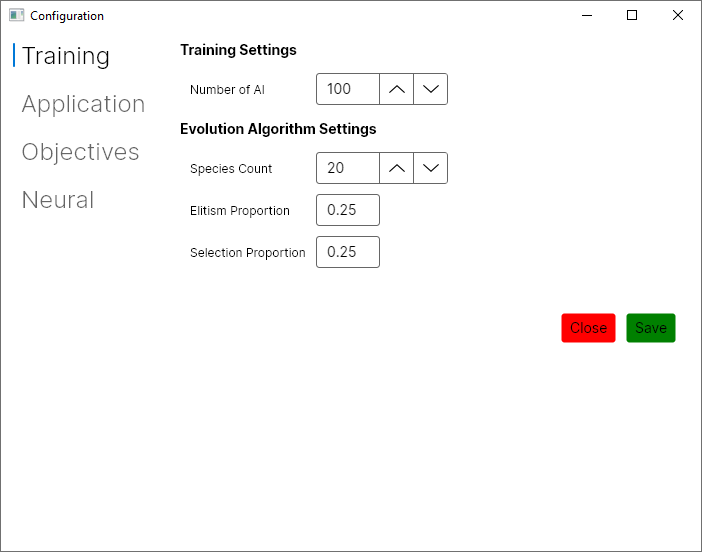
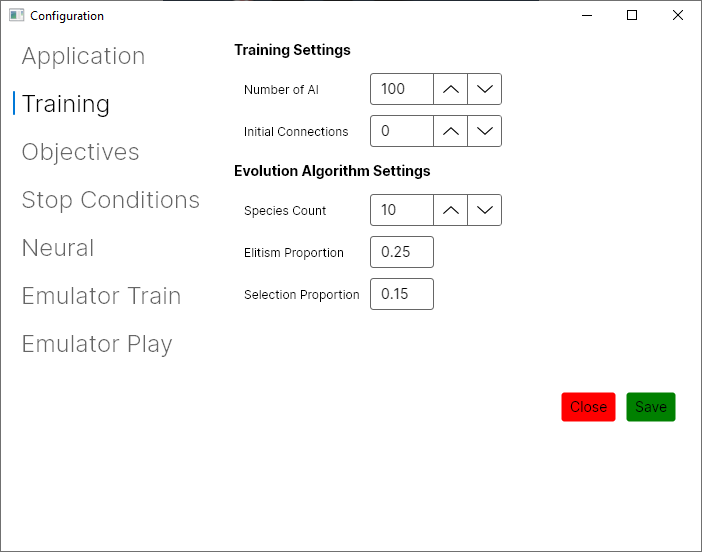
Updated README to current application version

diff --git a/README.md b/README.md
@@ -1,19 +1,25 @@
 # Super Mario World - Machine Learning
 A project by Tourmi & Voltage98 
 --------
-Training a Super Mario World AI that's able to beat levels on its own, as well as completing or optimizing various objectives  
+Training a Super Mario World AI that's able to beat levels on its own, as well as completing or optimizing various objectives
+
 [MIT License](LICENSE)
 
 ## When cloning
 It is important to either clone the repository recursively to include the submodules, or initialize the submodules after cloning, as they need to be built for the program compilation to actually work.
 
+```
+git submodule init
+```
+
 ## Prerequisites
 * Must be on Windows
 * .NET SDK 6.0 or higher must be installed
 * Microsoft Visual C++ 2010 SP1 Runtime (x64) must be installed for Bizhawk to run
+* A Super Mario World ROM File
 
 ## Building the dependencies
-Run these commands starting from the root of the repository. Alternatively, you may use the buildDependencies script.
+Run these commands starting from the root of the repository. Alternatively, you may use the `buildDependencies.bat` script.
 
 ### SharpNEAT
 ```
@@ -34,9 +40,9 @@ dotnet build --configuration Release
 ```
 
 ## Running the application
-To run the application, you first need to copy a Super Mario World rom file to the root directory of the program. It must be named "swm.sfc" exactly.
+You may use the `run.bat` file to run the program, once the dependencies are built.
 
-You may use the run.bat file to run the program, once the dependencies are built.
+You will need to provide a Super Mario World ROM file through the configuration if the root directory of the program doesn't contain the ROM file (`smw.sfc`).
 
 ## Using the application
 
@@ -48,25 +54,37 @@ You may use the run.bat file to run the program, once the dependencies are built
 * **[Training Configuration](#configuration)**
 
 ### Training Page
+On this page, you can start training AIs, and supervise their progress. When starting a new training session, a folder will be created at the location of the app. The folder contains the current neural configuration, so that it can easily be loaded later on. It also contains the latest population file `current.pop`, so that training can be resumed. And it contains a `genomes/` folder, where the current best genome is saved, whenever it is improved.
+
 The training page consists of the following tabs
 
 #### Training Tab
-![Image of the training page's training tab](docs/training-training.png)  
+![Image of the training page's training tab](docs/training-training.png)
+
 * **Start training**
   * Starts the training of AIs, using the [app's configuration](#configuration). Note that the UI might be unresponsive if too many emulator instances are running at once. Please do not close any emulators manually, as this will break the application.
 * **Stop Training**
   * Will stop training at the end of the current generation. Please be patient if the population size is big, and not many emulators are running at once.
+* **Force Stop**
+  * Will immediately stop the training, if you do not wish to wait for the current generation to end. Note that the latest generation will be forfeit, and won't be saved or update the statistics.
 * **Load population**
   * Loads an existing population (xyz.pop) into the program. Allows to continue training a population after closing and reopening the application.
 * **Save population**
-  * Saves the population that's been trained for at least one generation.
+  * Saves the population that's been trained to a file.
 * **Exit**
   * Returns to the [main page](#main-page)
-  
+
 #### Neural Network Tab
 ![Image of the training page's neural network tab](docs/training-neural.png)
-* **Neural Network visualization**
-  * Shows the first emulator's neural network structure and values. When the emulators finish booting, the emulator being represented will be the one that was booted first. The refresh rate of the preview will depend on the computer's performances, and having too many emulators running at once will affect it.
+**Neural Network visualization**
+
+Shows the first emulator's neural network structure and values. Colored/white nodes are On, dark nodes are Off. The state of middle nodes is not represented. Magenta connections are negative connections, and green ones, positive.
+
+When the emulators finish booting, the emulator being represented will be the one that was booted first. The refresh rate of the preview will depend on the computer's performances, and having too many emulators running at once will affect it.
+
+It is recommended to not stay on this page for too long, as it will affect the speed of the training session.
+
+More information on the inputs and outputs of the neural network can be found in the [configuration](#Neural).
 
 #### Statistics Tab
 ![Image of the training page's statistics tab](docs/training-stats.png)  
@@ -78,16 +96,16 @@ This tab shows statistics of the current training session. They are updated at t
   * The best AI's current score.
 * **Best genome's complexity**
   * The amount of connections in the neural network of the best AI.
-* **Mean fitness**
+* **Average fitness**
   * The average score of all the AIs.
-* **Mean complexity**
+* **Average complexity**
   * The average complexity (amount of connections in the neural network) of all the AIs.
 * **Maximum complexity**
   * The maximum complexity of all the AIs.
 * **Evaluations per minute**
   * The amount of AIs that are evaluated per minute.
 * **Total evaluations so far**
-  * The amount of AIs evaluated since the start of training.
+  * The amount of AIs evaluated since the start of the training session.
 
 #### Graph Tab
 ![Image of the training page's chart tab](docs/training-chart.png)
@@ -97,7 +115,8 @@ This tab shows a graph of the different stats mapped over the training generatio
 ### Play Mode
 ![Image of the play mode page](docs/playmode.png)  
 
-This page is used to make specific genomes play on specific levels, both of them being manually selected. It is a good way to check the abilities of a genome on levels that aren't part of its training-set.
+This page is used to make specific genomes play on specific levels, both of them being manually selected. It is a good way to check the abilities of a genome on levels that aren't part of its training-set, or even previewing the capabilities of the resulting genomes from a training session.
+
 * **Load Genome**
   * Loads the genome to use for the play mode. Selecting a new genome while the play mode is running reloads the save state and starts it again using the new genome.
 * **Load save state**
@@ -111,11 +130,26 @@ This page is used to make specific genomes play on specific levels, both of them
 
 ### Configuration
 
+#### Application
+![Image of the app configuration menu](docs/config-app.png)  
+
+* **ROM Path**
+  * The path to the Super Mario World ROM file. Clicking the `Select ROM` button allows to select a new ROM.
+* **Multithread**
+  * This is the amount of emulators which will be booted while training. It is recommended to not put this value higher than the amount of cores within your computer, as performance will be greatly affected. For the fastest training, at the cost of using up all of the CPU resources available, set to the exact amount of cores in your computer. Otherwise, set to a lower value.
+* **Communication Port with Arduino**
+  * Communication port with an Arduino that's connected to the PC. Should be left like it is if no arduinos are connected. Used so we can preview the inputs on an actual physical controller.
+  * [See ./ArduinoSNESController](ArduinoSNESController)
+* **Save states to use**
+  * By clicking the button, you can select the save states you want to use for training. At least one must be selected.
+
 #### Training
 ![Image of the neural network configuration menu](docs/config-training.png)  
 
 * **Number of AIs**
   * Determines the total population size of the training. Making it too big will make evolution really slow, while making it too small will make break-throughs extremely rare.
+* **Initial connections**
+  * We recommend leaving this option at 0, but it allows the specification of a percentage of predefined connections when training a new AI. Should be higher or equal to 0, but lower than 1.
 * **Species count**
   * Determines the number of species to use for the NEAT algorithm. A higher value will make breakthroughs more common while training, but a value that's too high will be detrimental to the evolution of the individual species. The amount of AIs per species is equal to `Number of AI / Species Count`
 * **Elitism proportion**
@@ -123,26 +157,14 @@ This page is used to make specific genomes play on specific levels, both of them
 * **Selection proportion**
   * The percentage of AIs to keep between each generation, within a species. Should be higher than 0, but lower or equal to 1. New AIs will be created within the species based on the AIs that are kept.
 
-#### Application
-![Image of the app configuration menu](docs/config-app.png)  
-
-* **Multithread**
-  * This is the amount of emulators which will be booted while training. It is recommended to not put this value higher than the amount of cores within your computer, as performance will be greatly affected. For the fastest training, at the cost of using up all of the CPU resources available, set to the exact amount of cores in your computer. Otherwise, set to a lower value.
-* **Communication Port with Arduino**
-  * Communication port with an Arduino that's connected to the PC. Should be left like it is if no arduinos are connected. Used so we can preview the inputs on an actual physical controller.
-  * [See ./ArduinoSNESController](ArduinoSNESController)
-* **When to stop the training**
-  * UNIMPLEMENTED
-* **Save states to use**
-  * By clicking the button, you can select the save states you want to use for training. At least one must be selected.
-
 #### Objectives
 ![Image of the objectives configuration menu](docs/config-objectives.png)  
 
 This page lists all of the available training objectives. Some of them cannot be disabled, but the multiplier can be set to 0 so it won't affect the score, at least. The values pictured are the recommended values when training AIs from nothing, but you may experiment at your leisure.
+
 * **Enabled**
   * Whether or not this objective will affect the score.
-  * Also, if the objective has a stop condition, the stop condition will not actually stop the level if it is disabled.
+  * Also, some objectives cuts the training short when a certain condition is satisfied (Dying for `Died`, completing the level for `Won level`, etc). This behaviour is disabled when the objective is disabled.
 * **Multiplier**
   * The amount by which to multiply the objective's score.
 
@@ -153,20 +175,24 @@ This page lists all of the available training objectives. Some of them cannot be
   * It is recommended to set this value to a negative value to discourage AIs from killing themselves.
 * **Distance travelled**
   * Points to attribute for each tile the AI traverses. This is based on the maximum distance, so going back and forth will not give more points.
+  * The AI must be grounded for points to be attributed, so jumping down a pit will not give extra points.
+  * East, West, Up, Down multipliers
+    * Specific multipliers for distance traveled in the respective directions. These are multiplied with the objective's multiplier.
 * **Stopped moving**
   * Stops the current level if the AI has stopped progressing through the level. This is based on the maximum distance reached so far, not the current position.
   * It is recommended to leave this enabled, but you may disable it if you want AIs to stay on the level for up to the maximum duration.
   * A negative amount of points is recommended to discourage the AI from idling, moving back and forth, and looping forever.
 * **Time taken**
-  * Gives some points based on the amount of seconds the AI had left before its training being shutdown. 
-  * Note that these points are given even if the AI died or stopped moving.
-  * Do not set this value too high unless you also raise the penalty for dying and not moving, as the AI might be encouraged to kill itself or idle as soon as possible to max out its score.
-  * It is recommended to leave this value at 0 if the [Speed](#Speed) objective is used.
+  * Gives points when the AI takes way too long to complete a level. Recommended to set to a negative value and leave enabled in case AIs decide to take way too much time on a level.
 * **Speed**
   * Gives points based on the speed of the AI. 
-  * The formula is `(Maximum Tiles distance / Seconds taken) * Multiplier`
+  * The formula is `(Maximum Tiles distance / Seconds taken) * Multiplier * Direction Multiplier`
+  * Horizontal and vertical multipliers
+    * Additional multipliers for the direction of the AI. 
 * **Won level**
   * The amount of points to attribute if the AI wins a level. Ideally, this should be a high value to encourage actually finishing levels.
+  * Goal and Key multipliers
+    * Set one of these to 0 or a negative value if you want to prioritize finishing a level with a key, or through the regular level ending.
 * **Coins**
   * The amount of points to give the AI per coin collected.
 * **Yoshi Coins**
@@ -177,7 +203,27 @@ This page lists all of the available training objectives. Some of them cannot be
   * The amount of points to give the AI for its in-game high-score.
   * The formula is `(In-game High Score / 1000) * Multiplier`
   * So a high-score of 55200 with a multiplier of 2 will give a total amount of points of 110.4 to the AI.
-  
+* **Power Up**
+  * Points given whenever the AI collects a power up it didn't have yet.
+  * Mushroom, Cape, Flower multipliers
+    * Additional multiplier for the type of power-up collected. If the global multiplier is 4, and the cape multiplier is 2, then the AI is awarded 8 points for collecting a Cape.
+* **Taken Damage**
+  * Points applied whenever an AI takes damage, not counting dying. 
+
+#### Stop Conditions
+![Image of the stop conditions menu](docs/config-stop-conditions.png)
+
+This page lists the available stop conditions for training sessions. Satisfying any of the enabled conditions will stop a training session.
+
+* **Stop when fitness reached**
+  * Will stop the training session once the best genome reaches the target fitness specified.
+* **Stop after X generations**
+  * Will stop the training session once the specified amount of generations is reached.
+* **Stop when plateau reached**
+  * Will stop the training session once an AI has stopped improving over the specified amount of generations.
+* **Stop after X minutes**
+  * Will stop the training session after the specified amount of minutes.
+
 #### Neural
 ![Image of the neural configuration menu](docs/config-neural.png)  
 
@@ -191,6 +237,7 @@ This page lists all of the inputs and outputs that can be toggled for the neural
   * Tiles : The tiles the AI can stand on. `(VDH * 2 + 1) * (VDV * 2 + 1)` total nodes.
   * Dangers : The dangerous tiles around the AI. Includes dangerous tiles as well as dangerous sprites. `(VDH * 2 + 1) * (VDV * 2 + 1)` total nodes.
   * Goodies : The "good" tiles around the AI. Includes coins, powerups, blocks that contain items. `(VDH * 2 + 1) * (VDV * 2 + 1)` total nodes.
+  * Water : The water tiles around the AI. `(VDH * 2 + 1) * (VDV * 2 + 1)` total nodes.
   * On ground : Whether or not the AI is touching the ground.
   * In water : Whether or not the AI is in water
   * Raising : Whether or not the AI is raising, both out of a jump as well as while swimming.
@@ -204,3 +251,22 @@ This page lists all of the inputs and outputs that can be toggled for the neural
   * Bias : Bias value. Always on.
 * **Output nodes**
   * The output nodes are self-explanatory, there is one for each button available on an SNES controller.
+  
+##### Emulator tabs
+![Image of one of the emulator menus](docs/config-emulator.png)
+
+There are 2 emulator tabs, one for the config of emulators used during a training session, and one for the emulator used in the Play Mode.
+Note that most of these settings can also be changed in the emulator itself.
+
+* **Sound Enabled**
+  * Toggles the sound for the emulator. Recommended to leave it off for training emulators, as they can get quite noisy.
+* **Sound Volume**
+  * The volume setting of the emulator. Value between 0 and 100.
+* **Unlimited framerate**
+  * Whether or not to allow the emulator to run at an uncapped framerate. Recommended to leave this on for training emulators, and off for the play mode emulator.
+* **Zoom Factor**
+  * The scaling factor of the emulators. A smaller value is recommended for training emulators, since a lot of windows can be open at once.
+* **Graphics Engine**
+  * The graphics engine to use for the emulator instances. Leave this to its default value, unless the emulators have trouble running properly.
+* **Activate Video**
+  * If video is deactivated, the emulator will only show a black screen. Can be used on training emulators to allow a slightly more performant training session.
